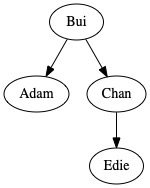
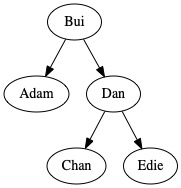
need to fix while loop for insert function

diff --git a/CS010C/Lab 7/AVLTree.cpp b/CS010C/Lab 7/AVLTree.cpp
@@ -67,6 +67,7 @@ void AVLTree::insert(const string &val)
     {
         // cout << "Test" << endl;
         if (curr == root){
+            cout << "Inside root rotate" << endl;
             balanceTree(curr);
             curr = nullptr;
         }
@@ -76,6 +77,7 @@ void AVLTree::insert(const string &val)
         }
         // cout << "Inside while" << endl;
     }
+    // balanceTree(curr);
 }
 void AVLTree::printBalanceFactors()
 {
@@ -91,7 +93,7 @@ void AVLTree::printBalanceFactors(Node *root)
     // cout << "Test" << endl;
     root->setHeight(updateHeight(root));
     printBalanceFactors(root->getLeft());
-    cout << BalanceFactor(root) << " ";
+    cout << root->getData() << "(" << BalanceFactor(root) << "), ";
     printBalanceFactors(root->getRight());
 }
 
@@ -104,12 +106,13 @@ int AVLTree::BalanceFactor(Node *node)
     int leftHeight = -1;
     if (node->getLeft() != NULL)
     {
-        leftHeight = node->getLeft()->getHeight();
+        leftHeight = updateHeight(node->getLeft());
     }
     int rightHeight = -1;
     if (node->getRight() != NULL)
     {
-        rightHeight = node->getRight()->getHeight();
+        // node->getRight()->setHeight(updateHeight(node));
+        rightHeight = updateHeight(node->getRight());
     }
     return leftHeight - rightHeight;
 }
@@ -165,7 +168,7 @@ void AVLTree::balanceTree(Node *root)
         // cout << "Inside balanceTree for node " << root->getData() << endl;
         if (BalanceFactor(root->getRight()) == 1)
         {
-            // cout << "Inside if" << endl;
+            cout << "Inside if" << endl;
             rotateRight(root->getRight());
         }
         rotateLeft(root);
@@ -221,6 +224,7 @@ void AVLTree::rotateLeft(Node *root)
         }
         else if (temp->getRight() == root)
         {
+            cout << "Inside not root rotate for node " << root->getData() << endl;
             temp->setRight(root->getRight());
             temp->getRight()->setParent(temp);
             Node *newRight = root->getRight()->getLeft();
@@ -275,7 +279,7 @@ void AVLTree::rotateRight(Node *root)
             temp->getRight()->setRight(root);
             root->setParent(temp->getRight());
             root->setLeft(newLeft);
-            if (newLeft == nullptr){
+            if (newLeft != nullptr){
                 newLeft->setParent(root);
             }
         }
